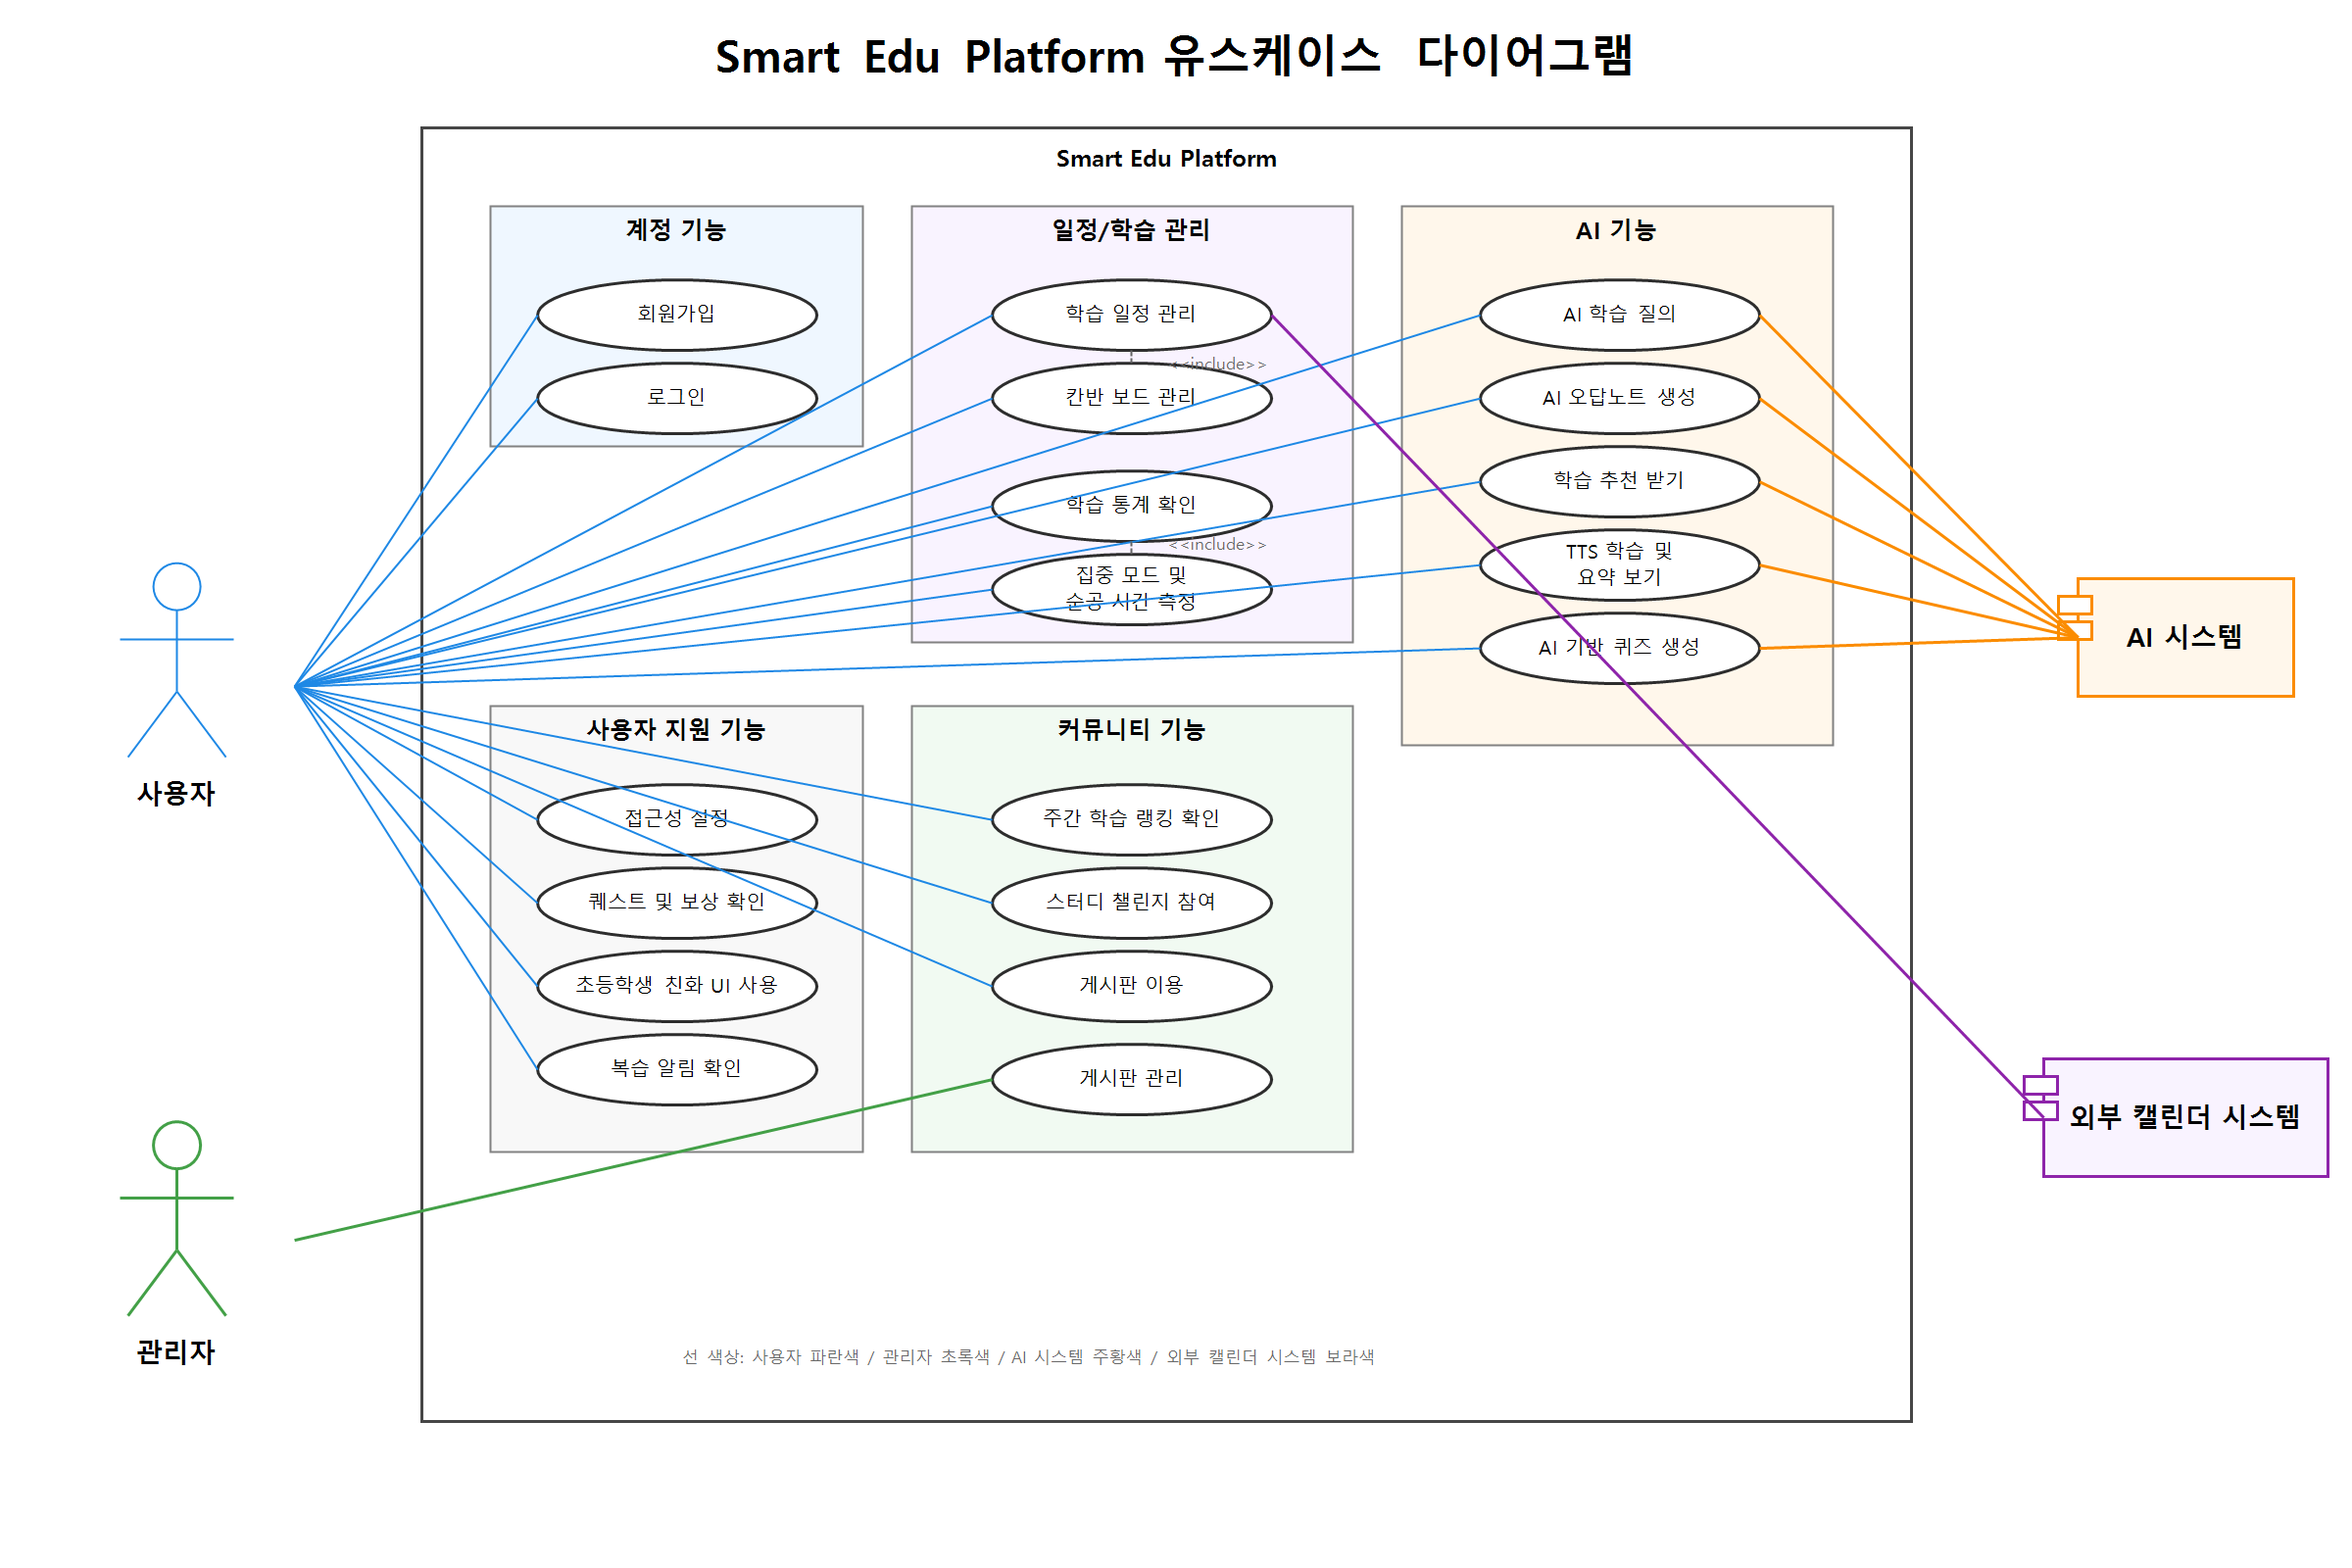
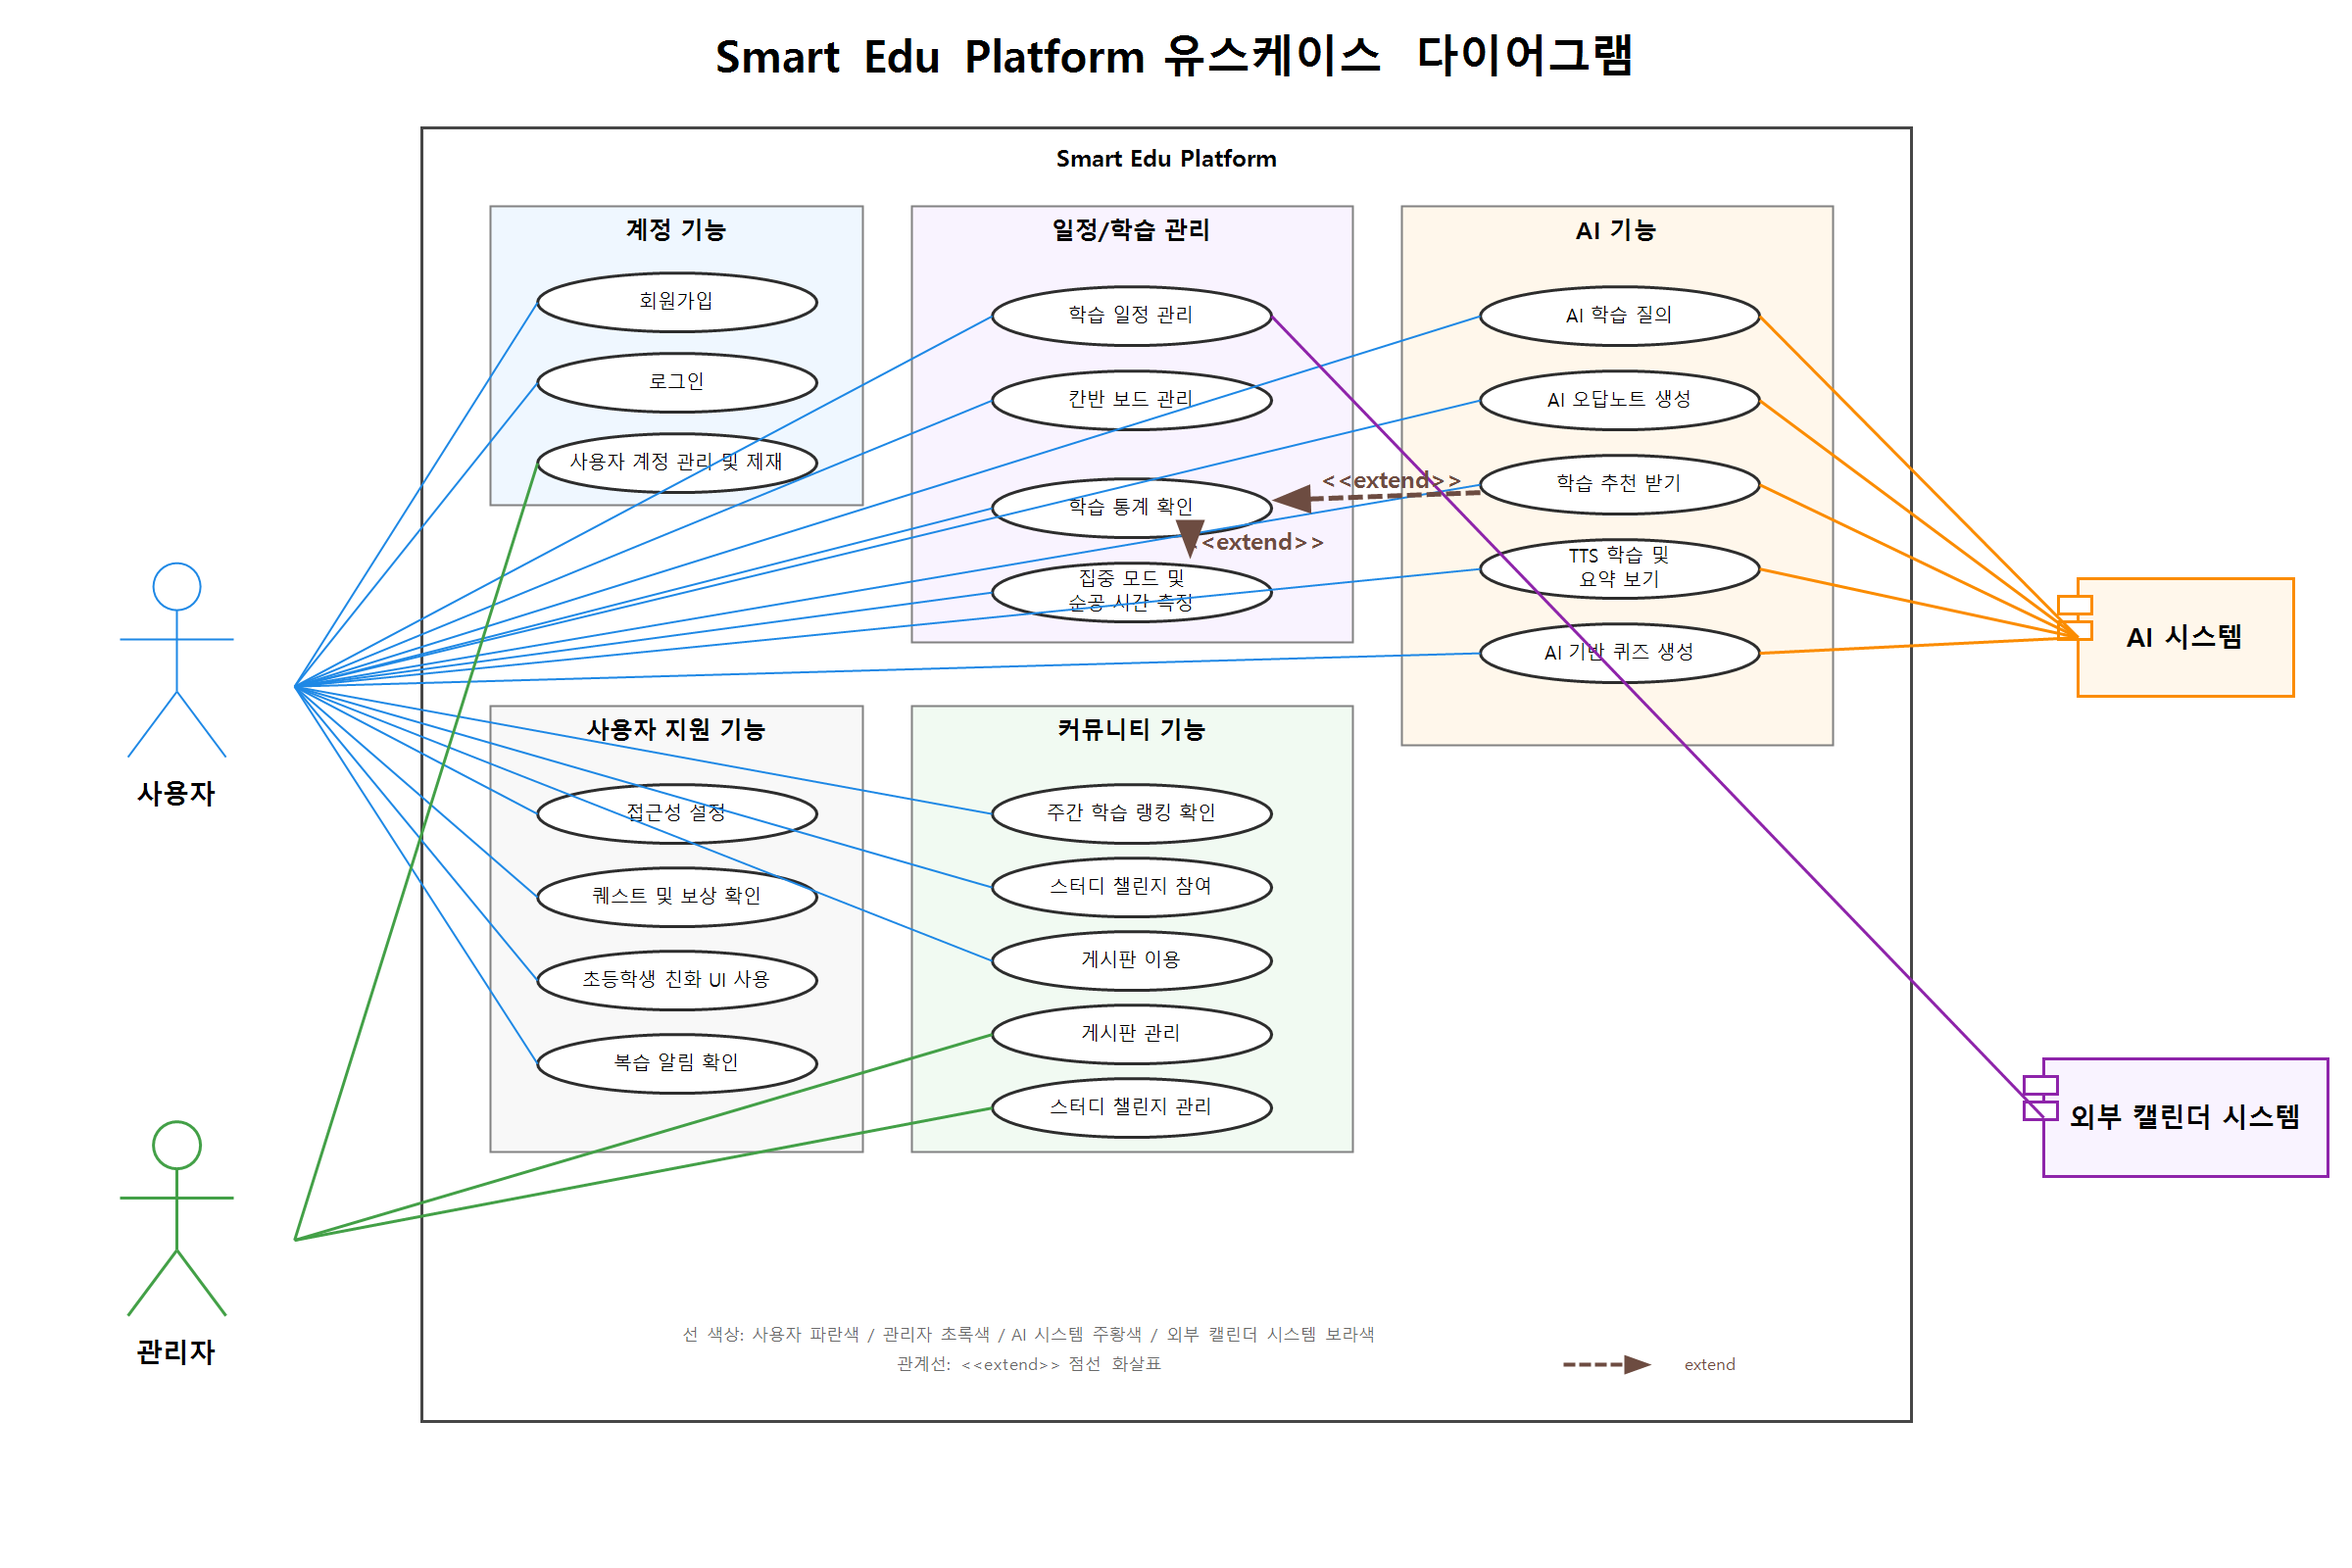
[docs] 유스케이스 다이어그램 지환 리뷰 반영

diff --git a/docs/requirements/requirements-document.md b/docs/requirements/requirements-document.md
@@ -198,6 +198,8 @@
 | FR-25 | 아이콘 중심 UI | 시스템은 초등학생 사용자를 위해 아이콘 중심의 직관적인 화면을 제공할 수 있어야 한다. | 사용자 유형 | 테마, 캐릭터 설정, 화면 모드 |
 | FR-26 | 주기적 복습 알림 | 시스템은 사용자의 학습 기록을 기반으로 일정 시간이 지난 뒤 복습 알림을 제공할 수 있어야 한다. | 사용자 ID, 학습 기록, 학습 날짜 | 복습 주기, 알림 시간 |
 | FR-27 | 게시판 운영 관리 | 관리자는 게시글, 댓글, 신고된 게시물을 확인하고 관리할 수 있어야 한다. | 관리자 ID, 게시글 ID | 신고 내역, 처리 상태 |
+| FR-28 | 사용자 계정 관리 및 제재 | 관리자는 부적절한 사용자 계정을 확인하고 제재할 수 있어야 한다. | 관리자 ID, 사용자 ID | 제재 사유, 제재 기간 |
+| FR-29 | 스터디 챌린지 관리 | 관리자는 부적절한 스터디 챌린지를 확인하고 관리할 수 있어야 한다. | 관리자 ID, 챌린지 ID | 처리 사유, 처리 상태 |
 
 ---
 
@@ -244,6 +246,8 @@
 | 전체 사용자 | 공통 | UR-01 | FR-01, FR-02 | UC-01, UC-02 |
 | 전체 사용자 | 공통 | UR-12 | NFR-02, NFR-03, NFR-07 | - |
 | 관리자 | 공통 | - | FR-27 | UC-18 |
+| 관리자 | 공통 | - | FR-28 | UC-20 |
+| 관리자 | 공통 | - | FR-29 | UC-21 |
 
 ---
 
@@ -266,7 +270,7 @@ Smart Edu Platform의 주요 액터와 시스템 기능 간의 관계는 다음 
 | 액터 | 설명 |
 |---|---|
 | 사용자 | Smart Edu Platform을 사용하는 일반 학습자 |
-| 관리자 | 사용자, 게시판, 시스템 운영을 관리하는 사용자 |
+| 관리자 | 사용자 계정, 게시판, 스터디 챌린지 등 시스템 운영 요소를 관리하는 사용자 |
 
 ### 8.2.2 부액터
 
@@ -300,3 +304,5 @@ Smart Edu Platform의 주요 액터와 시스템 기능 간의 관계는 다음 
 | UC-17 | 복습 알림 확인 | 사용자 | - |
 | UC-18 | 게시판 관리 | 관리자 | - |
 | UC-19 | AI 기반 퀴즈 생성 | 사용자 | AI 시스템 |
+| UC-20 | 사용자 계정 관리 및 제재 | 관리자 | - |
+| UC-21 | 스터디 챌린지 관리 | 관리자 | - |
